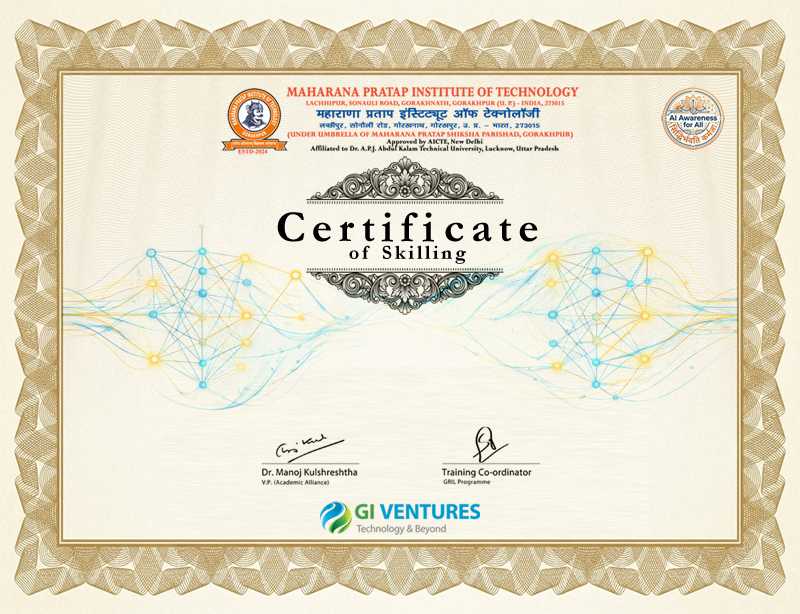
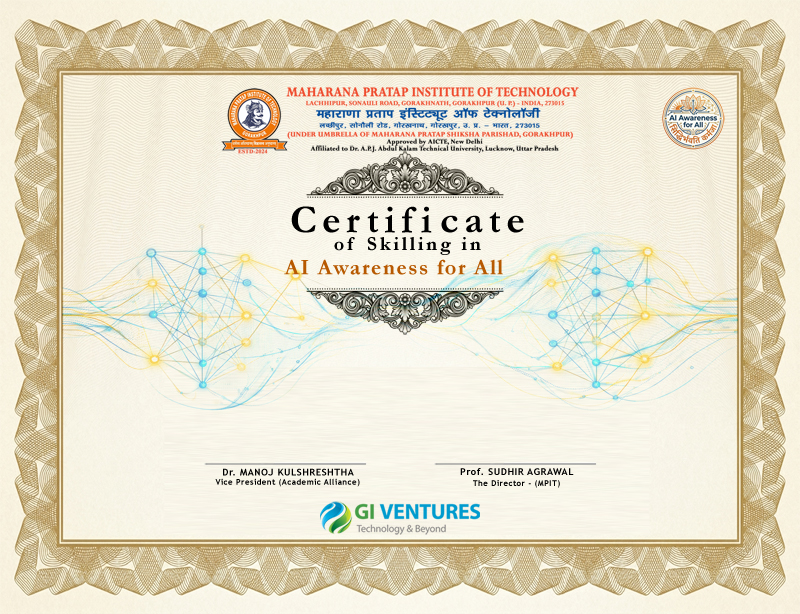
certificate

Changed region(s): [[0.3438, 0.2476, 0.6875, 0.557], [0.25, 0.7117, 0.4688, 0.8046], [0.5312, 0.6808, 0.7188, 0.8046]]

diff --git a/client/src/component/LMS Manager/roadmap/RoadmapContainer.jsx b/client/src/component/LMS Manager/roadmap/RoadmapContainer.jsx
@@ -656,80 +656,81 @@ const RoadmapContainer = ({
 
       {/* ── Champion completion modal ─────────────────────────────────────── */}
       <AnimatePresence>
-        {showCompletionModal && (
-          <motion.div
-            initial={{ opacity: 0 }}
-            animate={{ opacity: 1 }}
-            exit={{ opacity: 0 }}
-            transition={{ duration: 0.4 }}
-            onClick={() => {
-              clearTimeout(championTimerRef.current);
-              stopConfetti();
-              setShowCompletionModal(false);
-            }}
-            style={{
-              position: "fixed",
-              inset: 0,
-              zIndex: 9999,
-              display: "flex",
-              flexDirection: "column",
-              alignItems: "center",
-              justifyContent: "center",
-              background: "rgba(10, 10, 20, 0.75)",
-              backdropFilter: "blur(10px)",
-              WebkitBackdropFilter: "blur(10px)",
-              cursor: "pointer",
-            }}
-          >
-            {/* "You Passed!" heading */}
-            <motion.div
-              initial={{ opacity: 0, y: -20 }}
-              animate={{ opacity: 1, y: 0 }}
-              transition={{ delay: 0.3, duration: 0.5 }}
-              style={{
-                color: "#ffffff",
-                fontSize: "clamp(28px, 6vw, 52px)",
-                fontWeight: 700,
-                letterSpacing: "0.02em",
-                marginBottom: 8,
-                textShadow: "0 2px 24px rgba(0,0,0,0.4)",
-                pointerEvents: "none",
-                userSelect: "none",
-              }}
-            >
-              🎉 Congratulations on Getting Certified!
-            </motion.div>
+  {showCompletionModal && (
+    <motion.div
+      initial={{ opacity: 0 }}
+      animate={{ opacity: 1 }}
+      exit={{ opacity: 0 }}
+      transition={{ duration: 0.4 }}
+      onClick={() => {
+        clearTimeout(championTimerRef.current);
+        stopConfetti();
+        setShowCompletionModal(false);
+      }}
+      style={{
+        position: "fixed",
+        inset: 0,
+        zIndex: 9999,
+        display: "flex",
+        flexDirection: "column",
+        alignItems: "center",
+        justifyContent: "center",
+        gap: "clamp(12px, 3vh, 24px)", // ✅ responsive spacing
+        padding: "16px", // ✅ prevents edge clipping
+        background: "rgba(10, 10, 20, 0.75)",
+        backdropFilter: "blur(10px)",
+        WebkitBackdropFilter: "blur(10px)",
+        cursor: "pointer",
+        textAlign: "center", // ✅ better mobile alignment
+      }}
+    >
+      {/* Heading */}
+      <motion.div
+        initial={{ opacity: 0, y: -20 }}
+        animate={{ opacity: 1, y: 0 }}
+        transition={{ delay: 0.3, duration: 0.5 }}
+        style={{
+          color: "#ffffff",
+          fontSize: "clamp(22px, 5.5vw, 48px)", // ✅ slightly tighter for mobile
+          fontWeight: 700,
+          lineHeight: 1.2,
+          textShadow: "0 2px 24px rgba(0,0,0,0.4)",
+          pointerEvents: "none",
+          userSelect: "none",
+        }}
+      >
+        🎉 Congratulations on Getting Certified!
+      </motion.div>
 
-            {/* Sub-text */}
-            <motion.p
-              initial={{ opacity: 0 }}
-              animate={{ opacity: 0.75 }}
-              transition={{ delay: 0.6, duration: 0.5 }}
-              style={{
-                color: "#ffffff",
-                fontSize: "clamp(14px, 2vw, 18px)",
-                marginBottom: 24,
-                pointerEvents: "none",
-                userSelect: "none",
-              }}
-            >
-              Tap anywhere to continue
-            </motion.p>
+      {/* Sub-text */}
+      <motion.p
+        initial={{ opacity: 0 }}
+        animate={{ opacity: 0.8 }}
+        transition={{ delay: 0.6, duration: 0.5 }}
+        style={{
+          color: "#ffffff",
+          fontSize: "clamp(13px, 3.5vw, 18px)",
+          pointerEvents: "none",
+          userSelect: "none",
+        }}
+      >
+        Tap anywhere to continue
+      </motion.p>
 
-            {/* Lottie animation — gender-aware */}
-            <LottiePlayer
-              animationData={championAnimation}
-              loop={true}
-              style={{
-                width: "clamp(220px, 60vw, 500px)",
-                height: "clamp(220px, 60vw, 500px)",
-                pointerEvents: "none",
-                marginTop: "-80px", // ← pulls it up toward the text above
-              }}
-            />
-          </motion.div>
-        )}
-      </AnimatePresence>
+      {/* Lottie Animation */}
+      <LottiePlayer
+        animationData={championAnimation}
+        loop={true}
+        style={{
+          width: "clamp(180px, 70vw, 420px)", // ✅ better scaling
+          height: "auto", // ✅ prevents distortion
+          maxHeight: "50vh", // ✅ avoids overflow on short screens
+          pointerEvents: "none",
+        }}
+      />
+    </motion.div>
+  )}
+</AnimatePresence>
 
       <style>{`
         @keyframes pulse-ring {

diff --git a/client/src/component/LMS Manager/roadmap/RoadPathSVG.jsx b/client/src/component/LMS Manager/roadmap/RoadPathSVG.jsx
@@ -1293,8 +1293,8 @@ const RoadPathSVG = ({
             className={!isLocked ? "trophy-glow" : ""}
             style={{
               animation: isFullyCompleted
-                ? "glowPulse 2s infinite ease-in-out"
-                : "none",
+              
+              
             }}
           />
 
@@ -1307,61 +1307,36 @@ const RoadPathSVG = ({
             style={{ overflow: "visible" }}
           >
             <div
-              style={{
-                width: 72,
-                height: 72,
-                cursor: isLocked ? "not-allowed" : "pointer",
-                position: "absolute",
-                top: 4,
-                left: 10,
-                filter: isLocked ? "grayscale(0.6)" : "none",
-                opacity: isLocked ? 0.6 : 1,
-                transition: "all 0.3s ease",
-              }}
               onClick={handleCertificateClick}
               title={getTooltipText()}
+              className={`
+      w-[72px] h-[72px] absolute top-[4px] left-[10px]
+      transition-all duration-300
+      ${isLocked ? "cursor-not-allowed grayscale opacity-60" : "cursor-pointer"}
+    `}
             >
               {isFullyCompleted ? (
-                // Show completed certificate
-                <CertificateCard
-                  userName={user?.name || "Learner"}
-                  moduleName={moduleName}
-                />
+                /* ✅ Certificate Card Styling */
+                <div
+                  className="w-full h-full rounded-xl overflow-hidden shadow-lg border border-emerald-400 flex items-center justify-center bg-cover bg-center"
+                  style={{
+                    backgroundImage: "url('/certificateBackground.jpg')",
+                  }}
+                >
+               
+                </div>
               ) : (
-                // Show Lottie animation with quiz or locked state
-                <>
-                  <CertificateLottie size={72} />
-                  {/* <div
-                    style={{
-                      position: "absolute",
-                      bottom: 9,
-                      left: "40%",
-                      transform: "translateX(-50%)",
-                      background: isFullyCompleted
-                        ? "#10b981"
-                        : isQuizAvailable
-                          ? "#4F46E5"
-                          : "#64748b",
-                      color: "white",
-                      fontSize: 7,
-                      fontWeight: 800,
-                      fontFamily: "Nunito,sans-serif",
-                      whiteSpace: "nowrap",
-                      padding: "2px 6px",
-                      borderRadius: 6,
-                      boxShadow: !isLocked
-                        ? "0 2px 6px rgba(0,0,0,0.2)"
-                        : "none",
-                      pointerEvents: "none",
-                    }}
-                  >
-                    {isLocked && <span>🔒 {remainingMilestones} left</span>}
-                    {isQuizAvailable && !isLocked && <span>🎯 Take Quiz</span>}
-                    {isFullyCompleted && !isLocked && (
-                      <span>🏆 Certificate</span>
-                    )}
-                  </div> */}
-                </>
+                /* ✅ Lottie Styling */
+                <div className="w-full h-full flex items-center justify-center relative">
+                  <div className="w-full h-full scale-110">
+                    <CertificateLottie size={72} />
+                  </div>
+
+                  {/* Optional subtle glow */}
+                  {!isLocked && (
+                    <div className="absolute inset-0 rounded-full bg-indigo-500/20 blur-md"></div>
+                  )}
+                </div>
               )}
             </div>
           </foreignObject>

diff --git a/client/src/component/quiz/Quiz.jsx b/client/src/component/quiz/Quiz.jsx
@@ -18,9 +18,9 @@ const Quiz = () => {
 
   // ✅ KEY: Read the route that launched this quiz so we know where to go back.
   // The page that opens the quiz should pass returnRoute in navigate state:
-  //   navigate("/quiz", { state: { quiz: {...}, returnRoute: "/module/1" } })
-  // Falls back to "/module/1" if not provided.
-  const returnRoute = location.state?.returnRoute || "/module/1";
+  //   navigate("/quiz", { state: { quiz: {...}, returnRoute: "/module/3" } })
+  // Falls back to "/module/3" if not provided.
+  const returnRoute = location.state?.returnRoute || "/module/3";
 
   const STORAGE_KEY = `quiz_attempt_${quiz.QuizID}`;
   const { userToken, fetchData, user } = useContext(ApiContext);
@@ -60,7 +60,7 @@ const Quiz = () => {
 
   // ─── Navigate back to the module page with champion animation ────────────
   // ✅ This is the ONLY place we call navigate on pass.
-  //    returnRoute is "/module/1" (or wherever the quiz was launched from).
+  //    returnRoute is "/module/3" (or wherever the quiz was launched from).
   //    RoadmapContainer on that page reads location.state?.showChampion.
   const navigateBackWithChampion = () => {
     setShowResultModal(false);
